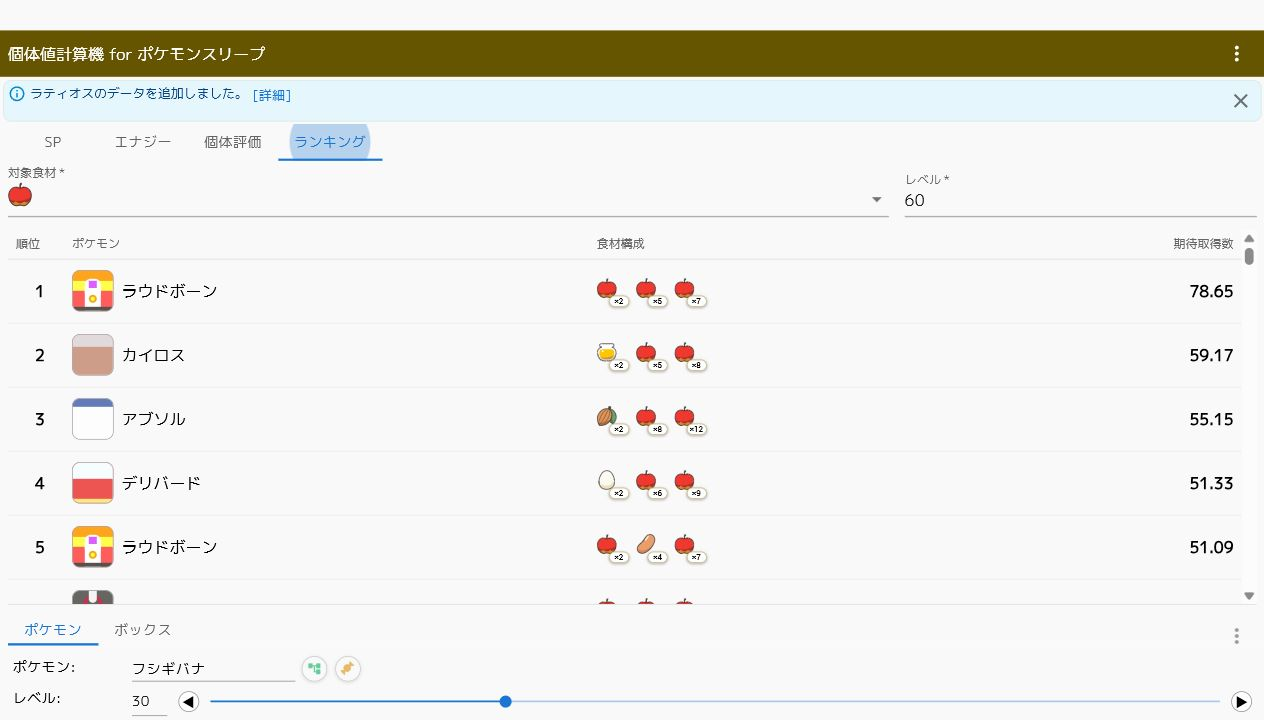
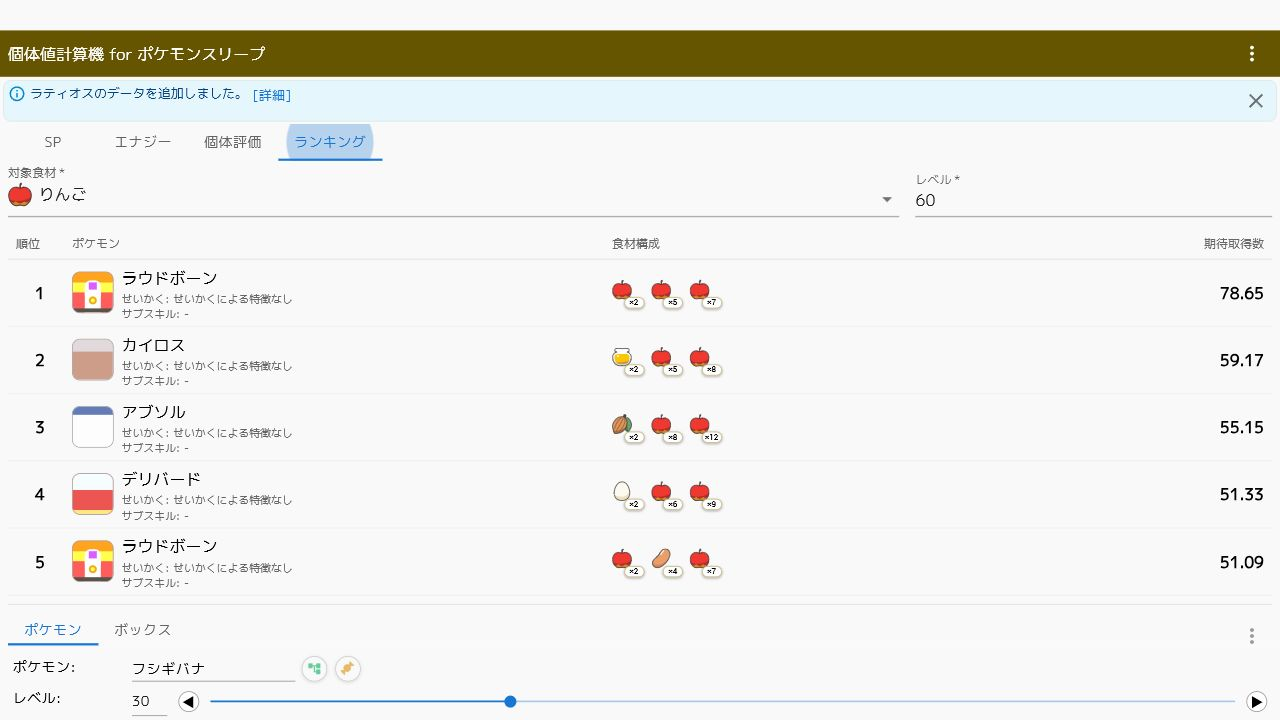
feat: show ranking traits

diff --git a/src/ui/IvCalc/IngredientRankingView.tsx b/src/ui/IvCalc/IngredientRankingView.tsx
@@ -122,7 +122,34 @@ const IngredientRankingView = React.memo(
 									shiny={result.iv.shiny}
 									size={40}
 								/>
-								<span>{t(`pokemons.${result.pokemon.name}`)}</span>
+								<StyledPokemonSummary>
+									<StyledPokemonName>
+										{t(`pokemons.${result.pokemon.name}`)}
+									</StyledPokemonName>
+									<StyledAppliedTraits>
+										<span>
+											<StyledTraitLabel>{t("nature")}:</StyledTraitLabel>
+											{result.iv.nature.upEffect === "No effect" ? (
+												t("nature effect.No effect")
+											) : (
+												<>
+													<StyledNatureUp>UP</StyledNatureUp>
+													{t(`nature effect.${result.iv.nature.upEffect}`)}{" "}
+													<StyledNatureDown>DOWN</StyledNatureDown>
+													{t(`nature effect.${result.iv.nature.downEffect}`)}
+												</>
+											)}
+										</span>
+										<span>
+											<StyledTraitLabel>{t("sub skills")}:</StyledTraitLabel>
+											{result.iv.activeSubSkills.length > 0
+												? result.iv.activeSubSkills
+														.map((subSkill) => t(`subskill.${subSkill.name}`))
+														.join(" / ")
+												: "-"}
+										</span>
+									</StyledAppliedTraits>
+								</StyledPokemonSummary>
 							</StyledPokemon>
 							<StyledIngredients>
 								{result.ingredientSlots.map((slot) => (
@@ -210,14 +237,55 @@ const StyledPokemon = styled("div")({
 	alignItems: "center",
 	gap: ".5rem",
 	minWidth: 0,
+	"@media (max-width: 600px)": {
+		gridColumn: "2 / 4",
+	},
+});
+
+const StyledPokemonSummary = styled("div")({
+	display: "flex",
+	flexDirection: "column",
+	gap: ".15rem",
+	minWidth: 0,
+});
+
+const StyledPokemonName = styled("span")({
+	overflow: "hidden",
+	textOverflow: "ellipsis",
+	whiteSpace: "nowrap",
+});
+
+const StyledAppliedTraits = styled("div")({
+	display: "flex",
+	flexDirection: "column",
+	gap: ".1rem",
+	minWidth: 0,
+	color: "#666",
+	fontSize: ".68rem",
+	lineHeight: 1.25,
 	"& > span": {
 		overflow: "hidden",
 		textOverflow: "ellipsis",
 		whiteSpace: "nowrap",
 	},
-	"@media (max-width: 600px)": {
-		gridColumn: "2 / 4",
-	},
+});
+
+const StyledTraitLabel = styled("strong")({
+	marginRight: ".25rem",
+	fontWeight: 500,
+});
+
+const StyledNatureUp = styled("strong")({
+	marginRight: ".2rem",
+	color: "#d32f2f",
+	fontSize: ".62rem",
+});
+
+const StyledNatureDown = styled("strong")({
+	marginRight: ".2rem",
+	marginLeft: ".5rem",
+	color: "#1976d2",
+	fontSize: ".62rem",
 });
 
 const StyledIngredients = styled("div")({
